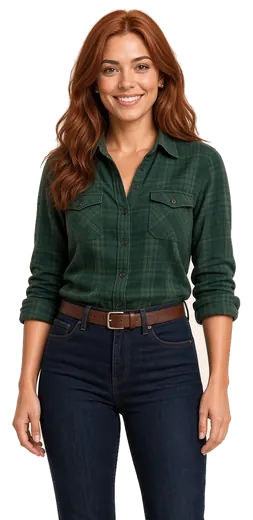
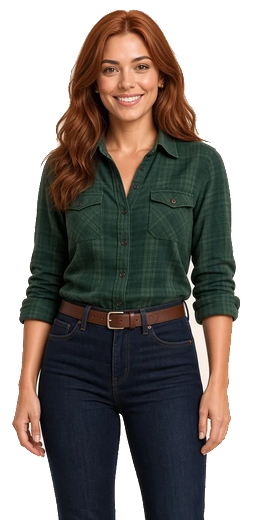
Clean the white halo and box from Camille's floating cutout.
Remat the cutout so the cream fringe is gone, and remove the ground
blob, drop-shadow, and any background or border behind her. No copy,
prices, or phone numbers changed.

Changed region(s): [[0.8024, 0.9231, 0.83, 0.9538], [0.4427, 0.9846, 0.4704, 1.0], [0.249, 0.1846, 0.2767, 0.2154]]

diff --git a/css/styles.css b/css/styles.css
@@ -1620,19 +1620,22 @@ html.lb-open { overflow: hidden; }
   height: 480px;
   flex: 0 0 300px;
   border: 0;
+  border-radius: 0;
   padding: 0;
   background: transparent;
+  box-shadow: none;
+  appearance: none;
+  -webkit-appearance: none;
+  overflow: visible;
   cursor: pointer;
 }
+.gg-stage:focus { outline: none; }
+.gg-stage:focus-visible {
+  outline: 2px solid #2f6b3c;
+  outline-offset: 4px;
+}
 .gg-ground {
-  position: absolute;
-  left: 36px;
-  right: 24px;
-  bottom: 4px;
-  height: 18px;
-  background: radial-gradient(ellipse at center, rgba(15,36,22,.28), transparent 70%);
-  filter: blur(4px);
-  pointer-events: none;
+  display: none;
 }
 .gg-sway, .gg-breathe, .gg-react, .gg-parallax {
   display: block;
@@ -1650,7 +1653,7 @@ html.lb-open { overflow: hidden; }
   height: 500px;
   max-width: none;
   transform: translateX(-50%) translateZ(0);
-  filter: drop-shadow(0 18px 24px rgba(15,36,22,.28));
+  filter: none;
   -webkit-mask-image: linear-gradient(to bottom, #000 86%, rgba(0,0,0,.45) 95%, transparent 100%);
   mask-image: linear-gradient(to bottom, #000 86%, rgba(0,0,0,.45) 95%, transparent 100%);
   pointer-events: none;
@@ -1824,6 +1827,8 @@ body.gg-chat-open elevenlabs-convai {
     border-radius: 0;
     background: transparent;
     box-shadow: none;
+    appearance: none;
+    -webkit-appearance: none;
   }
   .gg-ground { display: none; }
   .gg-stage picture { display: block; width: 100%; height: 100%; }
@@ -1837,7 +1842,7 @@ body.gg-chat-open elevenlabs-convai {
     transform: translateX(-50%) translateZ(0);
     object-fit: contain;
     object-position: center bottom;
-    filter: drop-shadow(0 10px 14px rgba(15,36,22,.28));
+    filter: none;
     -webkit-mask-image: linear-gradient(to bottom, #000 78%, rgba(0,0,0,.4) 90%, transparent 100%);
     mask-image: linear-gradient(to bottom, #000 78%, rgba(0,0,0,.4) 90%, transparent 100%);
   }
